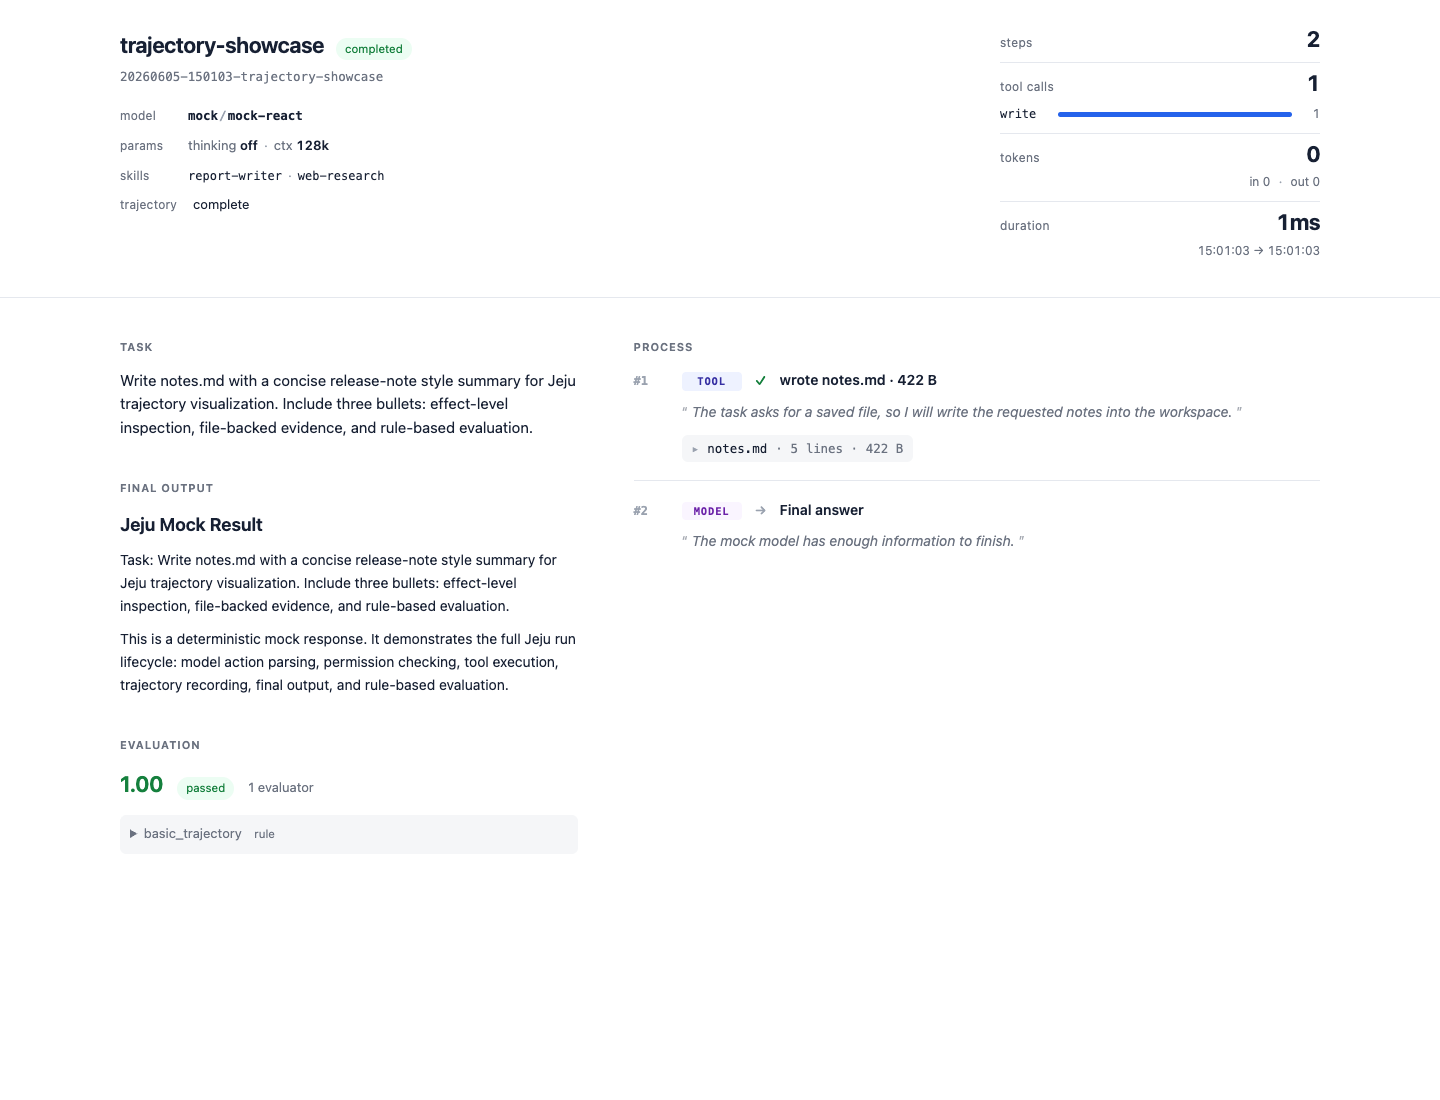
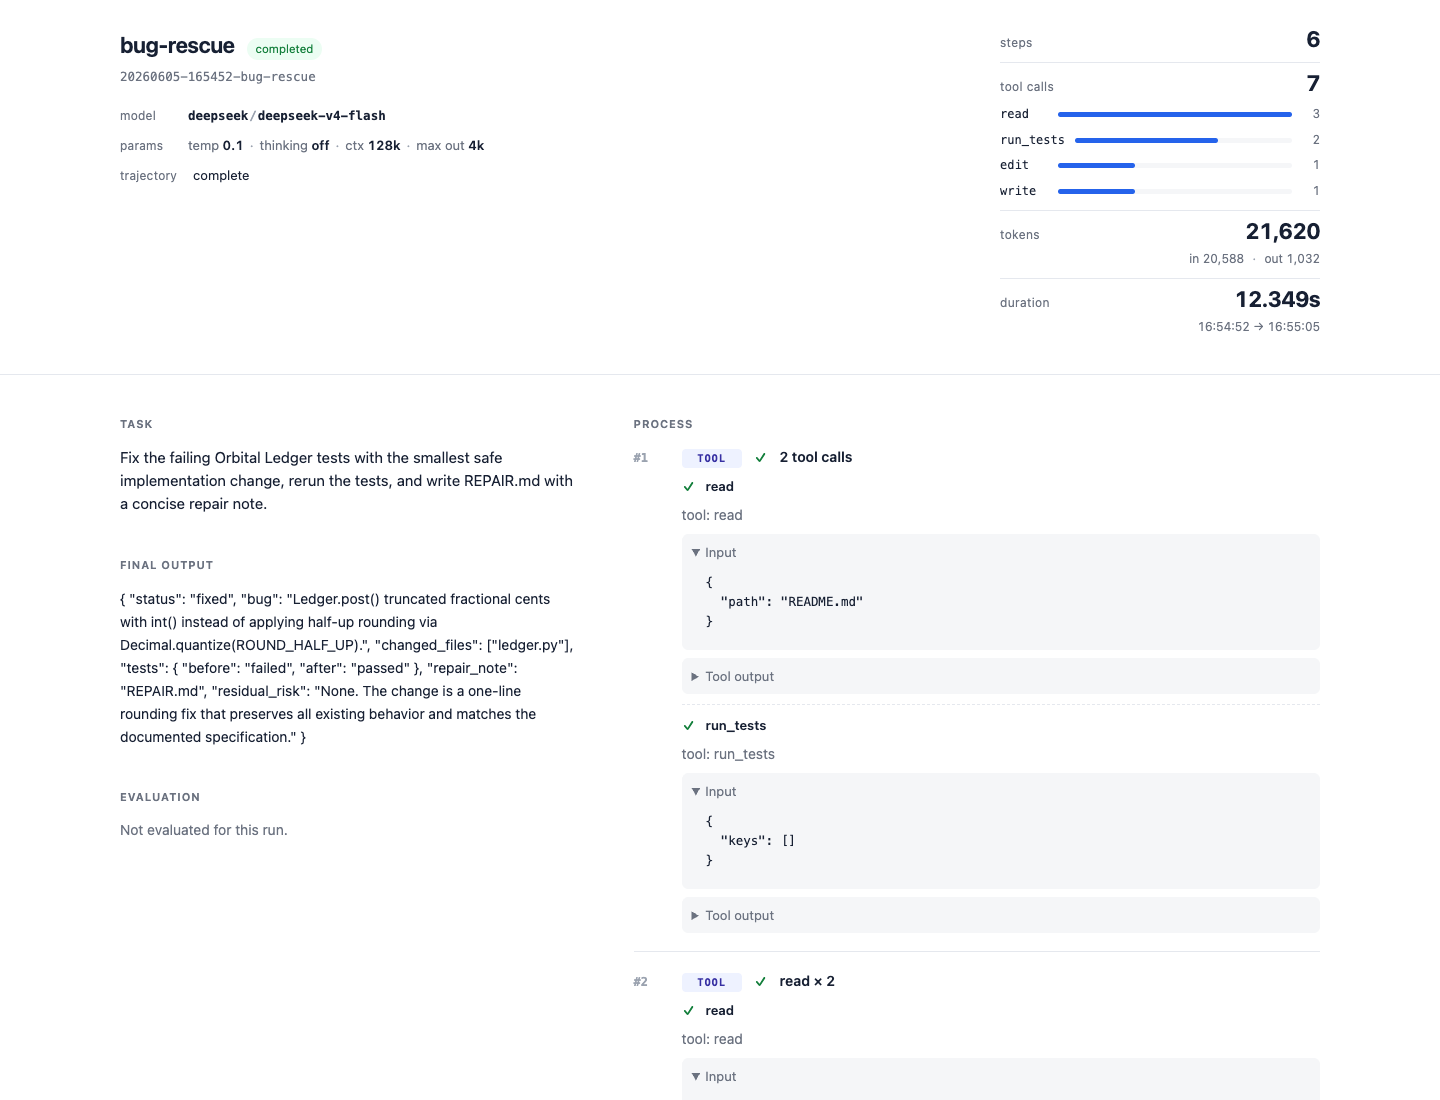
docs: add bug rescue showcase

diff --git a/examples/bug-rescue-agent/fixtures/buggy-ledger/test_ledger.py b/examples/bug-rescue-agent/fixtures/buggy-ledger/test_ledger.py
@@ -1,0 +1,27 @@
+from decimal import Decimal
+import unittest
+
+from ledger import Ledger
+
+
+class LedgerTest(unittest.TestCase):
+    def test_post_rounds_half_up_to_cents(self):
+        ledger = Ledger()
+
+        stored = ledger.post("oxygen", "10.015", "top up tank reserve")
+
+        self.assertEqual(stored, 1002)
+        self.assertEqual(ledger.balance("oxygen"), 1002)
+
+    def test_transfer_stays_balanced_after_rounding(self):
+        ledger = Ledger()
+
+        movement = ledger.transfer("mission-control", "orbital-cache", Decimal("2.675"), "supply packet")
+
+        self.assertEqual(movement, 0)
+        self.assertEqual(ledger.balance("mission-control"), -268)
+        self.assertEqual(ledger.balance("orbital-cache"), 268)
+
+
+if __name__ == "__main__":
+    unittest.main()

diff --git a/examples/bug-rescue-agent/fixtures/buggy-ledger/ledger.py b/examples/bug-rescue-agent/fixtures/buggy-ledger/ledger.py
@@ -1,0 +1,25 @@
+from decimal import Decimal
+
+
+class Ledger:
+    def __init__(self):
+        self.entries = []
+
+    def post(self, account, amount, memo):
+        cents = int(Decimal(str(amount)) * 100)
+        self.entries.append(
+            {
+                "account": account,
+                "cents": cents,
+                "memo": memo,
+            }
+        )
+        return cents
+
+    def transfer(self, source, destination, amount, memo):
+        debit = self.post(source, -amount, f"{memo} debit")
+        credit = self.post(destination, amount, f"{memo} credit")
+        return debit + credit
+
+    def balance(self, account):
+        return sum(entry["cents"] for entry in self.entries if entry["account"] == account)

diff --git a/examples/bug-rescue-agent/fixtures/buggy-ledger/test_harness.py b/examples/bug-rescue-agent/fixtures/buggy-ledger/test_harness.py
@@ -1,0 +1,28 @@
+import io
+import json
+import os
+from pathlib import Path
+import unittest
+
+
+def main():
+    os.chdir(Path(__file__).resolve().parent)
+    suite = unittest.defaultTestLoader.discover(".", pattern="test_*.py")
+    stream = io.StringIO()
+    result = unittest.TextTestRunner(stream=stream, verbosity=2).run(suite)
+    print(
+        json.dumps(
+            {
+                "status": "passed" if result.wasSuccessful() else "failed",
+                "testsRun": result.testsRun,
+                "failures": len(result.failures),
+                "errors": len(result.errors),
+                "output": stream.getvalue(),
+            },
+            indent=2,
+        )
+    )
+
+
+if __name__ == "__main__":
+    main()

diff --git a/internal/cli/root.go b/internal/cli/root.go
@@ -27,7 +27,7 @@ func newRootCommand(ctx context.Context) *cobra.Command {
   jeju info
   jeju validate agents/research.agent.yaml
   jeju validate --explain agents/research.agent.yaml
-  jeju run agents/research.agent.yaml "Create a deep research brief on AI agent evaluation methods, compare three approaches, and save the report to notes.md"
+  jeju run agents/research.agent.yaml "Create a short note explaining this agent run lifecycle and save it to notes.md"
   jeju run --runs-dir .jeju-dev/runs/code-review --workspace /path/to/project agents/code-review.agent.yaml "Review the current repository changes."
   jeju evolve --baseline-only experiments/research-evolve.yaml
   jeju view 20260526-120000-research`,

diff --git a/internal/cli/core_flow_test.go b/internal/cli/core_flow_test.go
@@ -36,7 +36,7 @@ func TestCoreFlowInitValidateRunInspectRuns(t *testing.T) {
 	}
 
 	runOutput := captureStdout(t, func() {
-		if err := Execute(ctx, []string{"run", "agents/research.agent.yaml", "Create a deep research brief on AI agent evaluation methods, compare three approaches, and save the report to notes.md"}); err != nil {
+		if err := Execute(ctx, []string{"run", "agents/research.agent.yaml", "Create a short note explaining this agent run lifecycle and save it to notes.md"}); err != nil {
 			t.Fatalf("run failed: %v", err)
 		}
 	})

diff --git a/README.md b/README.md
@@ -22,49 +22,46 @@ and optional evaluation.
 
 ## Quick Start
 
-The generated agent bundle includes a manifest, prompt, workspace, skills, run
-store, and a deterministic `mock` model, so the full lifecycle runs without API
-credentials or approval prompts.
+Run the showcase bug rescue agent to see Jeju repair a small local project,
+rerun tests, write a repair note, and record the full trajectory. It uses
+DeepSeek V4 Flash and does not require external search services.
 
 ```bash
 # Install the latest released CLI on macOS or Linux.
 curl -fsSL https://raw.githubusercontent.com/cosmtrek/jeju/master/scripts/install.sh | sh
 jeju version
 
-# Scaffold a new agent project.
-mkdir -p ~/jeju-agents
-jeju init research --dir ~/jeju-agents/research-agent
+# Run the DeepSeek V4 Flash showcase.
+export DEEPSEEK_API_KEY=sk-...
+git clone https://github.com/cosmtrek/jeju.git
+cd jeju
+./scripts/run-bug-rescue-agent.sh
 
-# Run the generated agent bundle.
-cd ~/jeju-agents/research-agent
-jeju validate agents/research.agent.yaml
-jeju run agents/research.agent.yaml "Create a deep research brief on AI agent evaluation methods, compare three approaches, and save the report to notes.md"
-
-# Inspect the recorded run.
-jeju runs
-jeju inspect <run_id>
-jeju view <run_id>
+# Inspect the recorded run printed by the script.
+jeju inspect --runs-dir .jeju-dev/runs/bug-rescue <run_id>
+jeju view --runs-dir .jeju-dev/runs/bug-rescue <run_id>
 ```
 
 The run writes:
 
 ```text
-runs/<run_id>/
+.jeju-dev/runs/bug-rescue/<run_id>/
   trajectory.jsonl     # canonical append-only run record
   report.html          # derived inspection view
 ```
 
-The default `mock` provider demonstrates Jeju's lifecycle rather than live web
-research. To use a real provider, see [DeepSeek setup notes](docs/deepseek.md)
-or configure another OpenAI-compatible endpoint in the agent manifest.
+The script copies a broken ledger fixture into `.jeju-dev/workspaces/bug-rescue`
+before each run, so the committed example stays unchanged. For a no-credential
+mock lifecycle check, use `jeju init <name>` or `make test-agent`.
 
-The install script targets macOS and Linux. Windows release archives are
-published as zip assets; download the matching `jeju_windows_<arch>.zip` from
-GitHub Releases and put `jeju.exe` on `PATH`, or install from source:
+Jeju currently supports macOS and Linux. Windows is not guaranteed yet. Source
+installs require Go 1.25 or newer:
 
 ```bash
 go install github.com/cosmtrek/jeju/cmd/jeju@latest
 ```
+
+Some example evaluators use Python 3.
 
 ## Inspect A Run
 
@@ -257,7 +254,9 @@ are example agent bundles, not test fixtures.
 
 Current examples cover:
 
+- [Bug rescue agent](examples/bug-rescue-agent/README.md)
 - [Code review agent](examples/code-review-agent/README.md)
+- [Commit plan agent](examples/commit-plan-agent/README.md)
 - [Privacy delegation agent](examples/privacy-delegation-agent/README.md)
 - [SkillsBench Lite agent](examples/skillsbench-lite-agent/README.md)
 

diff --git a/examples/bug-rescue-agent/README.md b/examples/bug-rescue-agent/README.md
@@ -1,0 +1,51 @@
+# Bug Rescue Agent
+
+This showcase example gives Jeju a small broken Python project and asks a
+DeepSeek V4 Flash agent to repair it.
+
+It demonstrates a full bounded workflow:
+
+- inspect a local codebase
+- run a deterministic test harness
+- make a minimal source edit
+- rerun tests
+- write a short repair note
+- inspect the complete trajectory and HTML report
+
+The committed fixture is never edited directly. The run script copies it to
+`.jeju-dev/workspaces/bug-rescue` and binds the agent to that temporary
+workspace.
+
+## Run
+
+Set a DeepSeek API key:
+
+```bash
+export DEEPSEEK_API_KEY=sk-...
+```
+
+From the Jeju checkout:
+
+```bash
+./scripts/run-bug-rescue-agent.sh
+```
+
+The script builds the local Jeju binary, copies the broken ledger fixture, shows
+the initial failing test result, validates the agent, and runs:
+
+```bash
+jeju run --runs-dir .jeju-dev/runs/bug-rescue --workspace .jeju-dev/workspaces/bug-rescue ...
+```
+
+After the run, inspect the report:
+
+```bash
+jeju view --runs-dir .jeju-dev/runs/bug-rescue <run_id>
+```
+
+## Expected Result
+
+The agent should fix the ledger rounding bug, make the tests pass, and write
+`REPAIR.md` in the copied workspace. The run evidence is saved under
+`.jeju-dev/runs/bug-rescue/<run_id>/trajectory.jsonl` with a derived
+`report.html`.

diff --git a/examples/bug-rescue-agent/prompts/bug-rescue.md b/examples/bug-rescue-agent/prompts/bug-rescue.md
@@ -1,0 +1,39 @@
+You are a bug rescue agent for a small local codebase.
+
+Your job is to make the failing tests pass with the smallest safe source change,
+then write a concise repair note. You are operating inside a copied workspace,
+not the source fixture.
+
+Workflow:
+
+1. Read README.md to understand the project.
+2. Run run_tests before editing.
+3. Inspect only the files needed to explain the failure.
+4. Edit the implementation, not the tests, unless the tests are obviously
+   inconsistent with README.md.
+5. Run run_tests again after every edit.
+6. Write REPAIR.md with the bug, fix, and verification.
+7. Return a compact final JSON object.
+
+Rules:
+
+- Prefer one precise edit over rewriting whole files.
+- Preserve public function and method names.
+- Do not add dependencies.
+- Do not hide failures by weakening assertions or changing test expectations.
+- Stop after tests pass and REPAIR.md is written.
+- If tests still fail after two edits, report the remaining failure and stop.
+
+Return only one JSON object with this shape:
+
+{
+  "status": "fixed|partial|failed",
+  "bug": "one sentence root cause",
+  "changed_files": ["path"],
+  "tests": {
+    "before": "passed|failed|not_run",
+    "after": "passed|failed|not_run"
+  },
+  "repair_note": "REPAIR.md",
+  "residual_risk": "short note"
+}

diff --git a/examples/README.md b/examples/README.md
@@ -11,8 +11,10 @@ evaluation evidence.
 
 ## Available Examples
 
-- [Code review agent](code-review-agent/README.md): reviews a Git diff and
-  returns structured findings checked by a local evaluator.
+- [Bug rescue agent](bug-rescue-agent/README.md): repairs a failing Python
+  ledger fixture with DeepSeek V4 Flash, reruns tests, and writes a repair note.
+- [Code review agent](code-review-agent/README.md): reviews a Git diff with
+  read-only Git tools and returns structured findings.
 - [Commit plan agent](commit-plan-agent/README.md): clusters large Git changes
   into reviewable commit themes before staging or committing.
 - [Privacy delegation agent](privacy-delegation-agent/README.md): improves a

diff --git a/examples/bug-rescue-agent/fixtures/buggy-ledger/README.md b/examples/bug-rescue-agent/fixtures/buggy-ledger/README.md
@@ -1,0 +1,19 @@
+# Orbital Ledger
+
+Orbital Ledger is a tiny accounting module for mission budget events. Amounts
+are stored as integer cents so downstream reports never depend on floating-point
+state.
+
+Expected behavior:
+
+- `Ledger.post(account, amount, memo)` records one entry.
+- `Ledger.transfer(source, destination, amount, memo)` records a balanced debit
+  and credit.
+- Amounts are rounded to cents with normal half-up financial rounding.
+- `Ledger.balance(account)` returns the account balance in cents.
+
+Run the tests with:
+
+```bash
+python3 test_harness.py
+```

diff --git a/docs/deepseek.md b/docs/deepseek.md
@@ -20,7 +20,7 @@ models:
 
 The DeepSeek preset enables JSON response mode by default for non-native fallback output. It also defaults `thinking.type` to `disabled`. If you set `thinking.type: enabled`, Jeju records the returned `reasoning_content`, shows a short console preview, and replays it on subsequent tool-call turns as required by DeepSeek thinking mode.
 
-Run the shared local fixture with DeepSeek:
+Create a DeepSeek API key, then run the shared local fixture:
 
 ```bash
 export DEEPSEEK_API_KEY=sk-...

diff --git a/docs/manual-for-agents.md b/docs/manual-for-agents.md
@@ -316,9 +316,8 @@ curl -fsSL https://raw.githubusercontent.com/cosmtrek/jeju/master/scripts/instal
 jeju version
 ```
 
-On Windows, do not run the shell installer. Prefer the matching
-`jeju_windows_<arch>.zip` release asset if available, or use the README source
-install path when Go is already installed:
+Jeju currently supports macOS and Linux. Windows is not guaranteed yet. Use the
+README source install path only when Go is already installed:
 
 ```bash
 go install github.com/cosmtrek/jeju/cmd/jeju@latest
